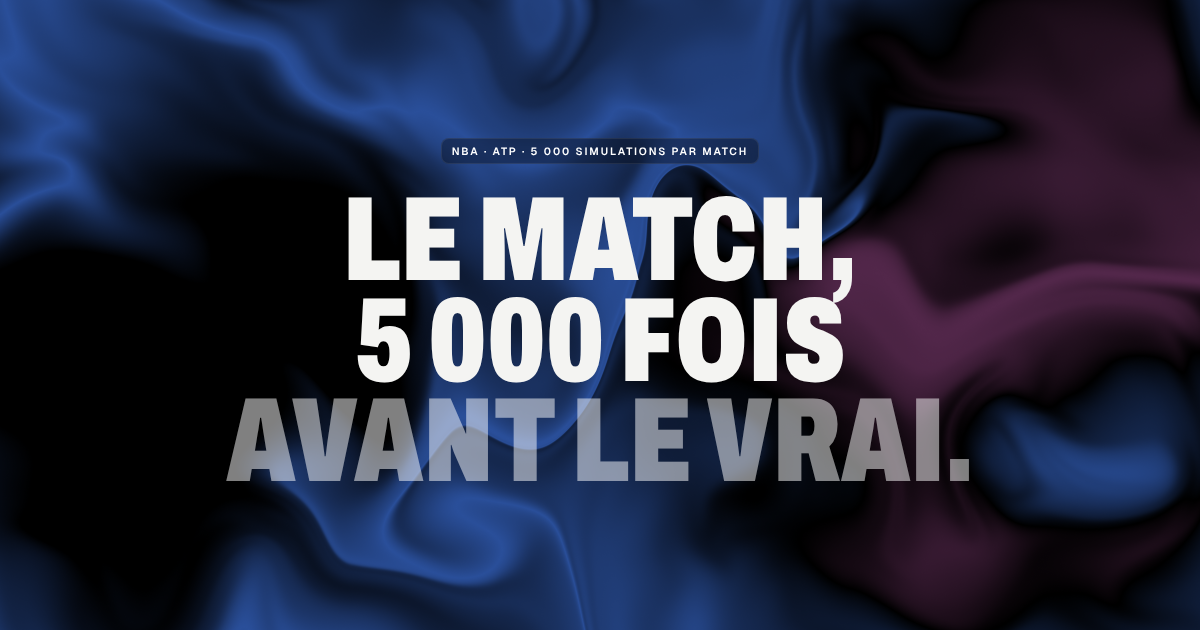
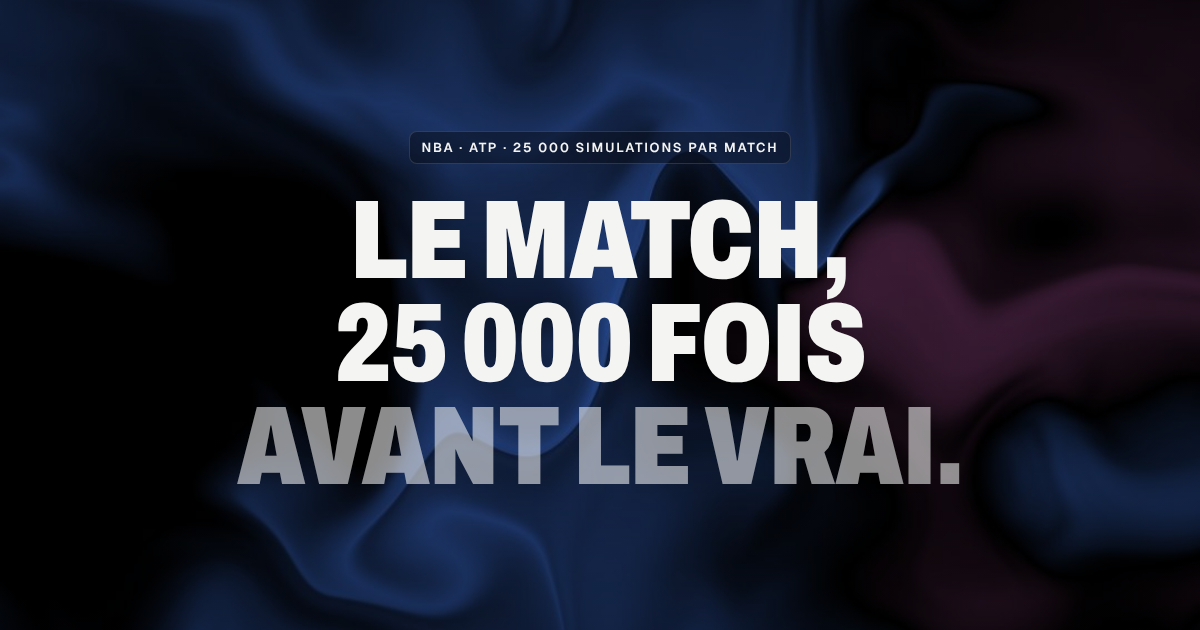
25 000 simulations par match (NBA et tennis) et correction « retour de blessure » au tennis activée (#125)
- Moteurs : 25 000 simulations par défaut (bruit sur le % de victoire : ± 0,7 -> ± 0,3 point).
- Site, aperçu de lien et image de partage : « 25 000 » partout ; le nombre affiché sur une fiche est celui de
  la simulation (les anciennes en ont 5 000).
- Tennis : retour de longue absence (poids 0,15, appris sur 2016-2023, vérifié sur 2024-2026).

Claude-Session: https://claude.ai/code/session_015NrTRaUoq2Dfft4YM3Vkx1

diff --git a/web/src/landing.tsx b/web/src/landing.tsx
@@ -122,7 +122,7 @@ function RingCard({ p = 0.82, title = 'Knicks +8,5' }: { p?: number; title?: str
         <span className="odds-pill">
           Cote <b>1,23</b>
         </span>
-        <p className="muted small">Passe dans 4 081 des 5 000 matchs simulés.</p>
+        <p className="muted small">Passe dans 20 405 des 25 000 matchs simulés.</p>
       </div>
     </div>
   );
@@ -180,7 +180,7 @@ function Logo() {
 }
 
 const FEATS: Array<{ icon: ReactNode; t: string; d: string }> = [
-  { icon: <ChartLineUp size={20} />, t: '5 000 simulations par match', d: 'Chaque match rejoué possession par possession, avec les compos et les cotes du moment.' },
+  { icon: <ChartLineUp size={20} />, t: '25 000 simulations par match', d: 'Chaque match rejoué possession par possession, avec les compos et les cotes du moment.' },
   { icon: <ShieldCheck size={20} />, t: 'Razzia assuré', d: 'Quand le favori dépasse 77 %, le moteur a vu juste 85 % du temps la saison passée.' },
   { icon: <Scales size={20} />, t: 'Pile ou face et paris plus sûrs', d: 'Les matchs trop serrés signalés, avec le handicap qui passe plus souvent.' },
   { icon: <ListChecks size={20} />, t: 'Suivi de tes tickets', d: 'Simples et combinés, cotes en direct, chaque sélection validée toute seule.' },
@@ -269,12 +269,12 @@ function Hero() {
     <header className="lp-hero3 mesh has-shader">
       <WarpBg c1={NUIT[0]} c2={NUIT[1]} />
       <span className="lp-eyebrow on-dark lp-in" style={{ '--d': 0 } as CSSProperties}>
-        NBA · ATP · 5 000 simulations par match
+        NBA · ATP · 25 000 simulations par match
       </span>
       <h1 className="lp-in" style={{ '--d': 1 } as CSSProperties}>
         Le match,
         <br />
-        5 000 fois
+        25 000 fois
         <br />
         <em>avant le vrai.</em>
       </h1>
@@ -318,7 +318,7 @@ function Proof() {
         <span>joueurs sur le terrain, chacun avec sa carte de tir, son défenseur et sa note d’impact</span>
       </div>
       <div>
-        <b className="up">5 000</b>
+        <b className="up">25 000</b>
         <span>matchs rejoués avant chaque coup d’envoi, compos et arbitres du soir compris</span>
       </div>
     </section>
@@ -330,7 +330,7 @@ function Bento() {
     <div className="lp-bento">
       <Bezel className="lp-b-big">
         <div className="lp-b-t">
-          <h3>5 000 matchs avant le vrai</h3>
+          <h3>25 000 matchs avant le vrai</h3>
           <p>Qui gagne, de combien, le score le plus probable, et le pari qui passe le plus souvent.</p>
         </div>
         <RingCard />
@@ -448,7 +448,7 @@ function Steps() {
       <ol>
         {[
           ['Choisis un match', 'Le programme NBA et ATP du jour, avec les cotes et les compos.'],
-          ['Razzia le joue 5 000 fois', 'En une minute : vainqueur, handicap plus sûr, joueurs en feu, badges.'],
+          ['Razzia le joue 25 000 fois', 'En une minute : vainqueur, handicap plus sûr, joueurs en feu, badges.'],
           ['Suis ton ticket', 'Ajoute les paris, valide, et regarde chaque sélection passer au vert.'],
         ].map(([t, d], i) => (
           <li key={t} data-reveal style={{ '--d': i } as CSSProperties}>
@@ -519,7 +519,7 @@ function Plans() {
 }
 
 const QA: Array<[string, string]> = [
-  ['Qu’est-ce que Razzia fait qu’une IA généraliste ne fait pas ?', 'Une IA généraliste résume ce qu’elle a lu. Razzia rejoue le match : 5 000 fois, possession par possession, avec la carte de tir de chaque joueur, ses défenseurs, les rotations, les arbitres et la fatigue du soir, sur des données mises à jour avant chaque simulation. Le résultat est une distribution chiffrée, pas une opinion.'],
+  ['Qu’est-ce que Razzia fait qu’une IA généraliste ne fait pas ?', 'Une IA généraliste résume ce qu’elle a lu. Razzia rejoue le match : 25 000 fois, possession par possession, avec la carte de tir de chaque joueur, ses défenseurs, les rotations, les arbitres et la fatigue du soir, sur des données mises à jour avant chaque simulation. Le résultat est une distribution chiffrée, pas une opinion.'],
   ['Comment est simulé un tir ?', 'Le moteur choisit le type de jeu (pick and roll, isolation, catch-and-shoot…), qui finit l’action, la zone et la position du tir sur la vraie carte du joueur, puis l’adresse selon la zone, le type de jeu, sa forme récente, le défenseur qui conteste et le domicile.'],
   ['Comment sont prévues les minutes ?', 'Comme le ferait le coach : hiérarchie de la rotation, titulaires annoncés, fautes, écart au score. Pour un effectif remanié, la pré-saison sert à lire la nouvelle hiérarchie, jamais à juger le niveau.'],
   ['Le moteur tient-il compte des arbitres et de la fatigue ?', 'Oui. Chaque arbitre a sa tendance à siffler, mesurée sur ses matchs : le trio du soir change le nombre de fautes. La fatigue compte les fuseaux traversés, l’altitude, le back-to-back et l’habitude d’un joueur de se reposer ce soir-là.'],
@@ -649,7 +649,7 @@ export function Landing({ path }: { path: string }) {
       )}
       {page === 'features' && (
         <>
-          <PageHead eyebrow="Fonctionnalités" title={<>Tout ce que<br />Razzia fait.</>} lede="Chaque match rejoué 5 000 fois, possession par possession ou point par point : les paris qui passent le plus souvent, les signaux à connaître, et ton ticket suivi jusqu’au coup de sifflet final." />
+          <PageHead eyebrow="Fonctionnalités" title={<>Tout ce que<br />Razzia fait.</>} lede="Chaque match rejoué 25 000 fois, possession par possession ou point par point : les paris qui passent le plus souvent, les signaux à connaître, et ton ticket suivi jusqu’au coup de sifflet final." />
           <section className="lp-sec lp-sec-tight">
             <Bento />
           </section>
@@ -742,7 +742,7 @@ export function Poster({ n }: { n: number }) {
         <WarpBg c1={AMBRE[0]} c2={AMBRE[1]} />
         <Logo />
         <h1>
-          5 000 matchs.
+          25 000 matchs.
           <br />
           <em>Avant le vrai.</em>
         </h1>
@@ -755,7 +755,7 @@ export function Poster({ n }: { n: number }) {
             <TeamMark team={{ tri: 'NYK' }} size="xl" />
           </div>
         </div>
-        <p className="po-sub">Chaque match NBA et ATP rejoué 5 000 fois avant le coup d’envoi.</p>
+        <p className="po-sub">Chaque match NBA et ATP rejoué 25 000 fois avant le coup d’envoi.</p>
         <span className="po-cta">razzia · simule avant de parier</span>
         {legal}
       </div>

diff --git a/web/index.html b/web/index.html
@@ -4,21 +4,21 @@
     <meta charset="UTF-8" />
     <meta name="viewport" content="width=device-width, initial-scale=1, viewport-fit=cover" />
     <meta name="theme-color" content="#08080a" />
-    <meta name="description" content="Razzia, sports analysis specialist : chaque match NBA et ATP rejoué 5 000 fois avec les effectifs, les absences et les cotes du moment." />
+    <meta name="description" content="Razzia, sports analysis specialist : chaque match NBA et ATP rejoué 25 000 fois avec les effectifs, les absences et les cotes du moment." />
     <link rel="icon" type="image/png" href="/src/assets/favicon.png" />
     <link rel="apple-touch-icon" href="/src/assets/apple-touch-icon.png" />
     <!-- Aperçu des liens partagés (X, réseaux) : le héros de l'accueil, 1200 × 630. -->
     <meta property="og:type" content="website" />
     <meta property="og:site_name" content="Razzia" />
-    <meta property="og:title" content="Razzia : le match, 5 000 fois avant le vrai" />
-    <meta property="og:description" content="Chaque match NBA et ATP rejoué 5 000 fois : qui gagne, de combien, et quel pari passe le plus souvent. Suis ton ticket en direct." />
+    <meta property="og:title" content="Razzia : le match, 25 000 fois avant le vrai" />
+    <meta property="og:description" content="Chaque match NBA et ATP rejoué 25 000 fois : qui gagne, de combien, et quel pari passe le plus souvent. Suis ton ticket en direct." />
     <meta property="og:url" content="https://simbet-mu.vercel.app/" />
     <meta property="og:image" content="https://simbet-mu.vercel.app/og.png" />
     <meta property="og:image:width" content="1200" />
     <meta property="og:image:height" content="630" />
     <meta name="twitter:card" content="summary_large_image" />
-    <meta name="twitter:title" content="Razzia : le match, 5 000 fois avant le vrai" />
-    <meta name="twitter:description" content="Chaque match NBA et ATP rejoué 5 000 fois. Suis ton ticket en direct." />
+    <meta name="twitter:title" content="Razzia : le match, 25 000 fois avant le vrai" />
+    <meta name="twitter:description" content="Chaque match NBA et ATP rejoué 25 000 fois. Suis ton ticket en direct." />
     <meta name="twitter:image" content="https://simbet-mu.vercel.app/og.png" />
     <title>Razzia | Simulations NBA</title>
   </head>

diff --git a/web/src/tennis.tsx b/web/src/tennis.tsx
@@ -1,4 +1,4 @@
-// Onglet Tennis (ATP) : programme d'après les cotes Pinnacle notées, fiche de match avec la simulation (5 000 matchs point
+// Onglet Tennis (ATP) : programme d'après les cotes Pinnacle notées, fiche de match avec la simulation (25 000 matchs point
 // par point), mêmes principes que la NBA : vainqueur ou « Un set », pile ou face, Razzia assuré.
 import { useCallback, useEffect, useMemo, useRef, useState, type CSSProperties, type ReactNode } from 'react';
 import { ArrowLeft, CaretRight, PawPrint, HouseLine, HouseSimple, ListBullets, Mountains, Scales, ShieldCheck, SquaresFour, TennisBall, TrendDown, TrendUp, Trophy, WarningCircle, X } from '@phosphor-icons/react';
@@ -733,7 +733,7 @@ export function TennisMatchPage({ day, id }: { day: string; id: string }) {
           queued={state.status === 'queued'}
           start={since ?? (state.startedAt ? Date.parse(state.startedAt) : undefined)}
           title="On joue le match, point par point."
-          steps={['Demande envoyée', 'Historique ATP, notes des joueurs, cotes Pinnacle', '5 000 matchs simulés', 'Publication des résultats']}
+          steps={['Demande envoyée', 'Historique ATP, notes des joueurs, cotes Pinnacle', '25 000 matchs simulés', 'Publication des résultats']}
           prep={40}
           note="Compter 1 à 3 minutes. La page se met à jour seule, et la simulation continue si vous la quittez."
         />
@@ -750,7 +750,7 @@ export function TennisMatchPage({ day, id }: { day: string; id: string }) {
             </div>
           )}
           <h2>
-            Ce match, <em>joué 5 000 fois.</em>
+            Ce match, <em>joué 25 000 fois.</em>
           </h2>
           <p className="lede">
             Point par point : service et retour de chaque joueur sur cette surface, forme du jour, jeux décisifs. Il en sort la victoire, « Un set », le score en

diff --git a/src/cli/tennissim.ts b/src/cli/tennissim.ts
@@ -1,5 +1,5 @@
 // Simulation de matchs ATP à venir, à partir de leur fiche de cotes Pinnacle (branche cotes-tennis) :
-//   node src/cli/tennissim.ts --id 1639121174 --day 2026-10-24 --cotes ../cotes --out out/tennis [--n 5000]
+//   node src/cli/tennissim.ts --id 1639121174 --day 2026-10-24 --cotes ../cotes --out out/tennis [--n 25000]
 //   node src/cli/tennissim.ts --id 1639121174,1639065243 --day 2026-10-24,2026-10-25 ...   (toute une journée)
 // Une liste de jours de même longueur que les ids, ou un seul jour pour tous. Historique TennisMyLife en cache
 // (data/cache/tennis/tml), lu une fois ; photo officielle ATP, Wikipédia en secours. Écrit <out>/<id>.json par match ;
@@ -15,7 +15,7 @@ import { espnFixtures, leagueOf, pairKey, type Fixture } from '../tennis/espn.ts
 import { atpHeadshot, photoOf } from '../tennis/photos.ts';
 
 const arg = (k: string, d?: string) => { const i = process.argv.indexOf(`--${k}`); return i >= 0 ? process.argv[i + 1] : d; };
-const ids = arg('id')!.split(','), days = arg('day')!.split(','), cotes = arg('cotes', 'cotes-tennis')!, out = arg('out', 'out/tennis')!, n = Number(arg('n', '5000'));
+const ids = arg('id')!.split(','), days = arg('day')!.split(','), cotes = arg('cotes', 'cotes-tennis')!, out = arg('out', 'out/tennis')!, n = Number(arg('n', '25000'));
 if (days.length !== 1 && days.length !== ids.length) throw new Error('--day : un seul jour, ou un par match');
 const cache = 'data/cache/tennis';
 const history = await loadHistory(join(cache, 'tml'));

diff --git a/web/src/match.tsx b/web/src/match.tsx
@@ -324,7 +324,7 @@ function SimPanel({ g, state, busy, launch, since }: { g: Game } & ReturnType<ty
         </div>
       )}
       <h2>
-        {g.away.name} contre {g.home.name}, <em>joué 5 000 fois.</em>
+        {g.away.name} contre {g.home.name}, <em>joué 25 000 fois.</em>
       </h2>
       <p className="lede">
         Possession par possession : rotations, fautes, fins de match, adresse par zone et défenseurs probables. Il en sort les probabilités de victoire, du
@@ -332,7 +332,7 @@ function SimPanel({ g, state, busy, launch, since }: { g: Game } & ReturnType<ty
       </p>
       <div className="launch-facts">
         <div>
-          <b>5 000</b>
+          <b>25 000</b>
           <span>matchs simulés</span>
         </div>
         <div>
@@ -358,7 +358,7 @@ function Progress({ state, since }: { state: Extract<SimState, { status: 'queued
       queued={state.status === 'queued'}
       start={since ?? (state.startedAt ? Date.parse(state.startedAt) : undefined)}
       title="On joue le match."
-      steps={['Demande envoyée', 'Données du jour : effectifs, absences, cotes', '5 000 simulations', 'Publication des résultats']}
+      steps={['Demande envoyée', 'Données du jour : effectifs, absences, cotes', '25 000 simulations', 'Publication des résultats']}
       prep={70}
       note="Compter 3 à 6 minutes, un peu plus pour la toute première simulation. La page se met à jour seule, et la simulation continue si vous la quittez."
     />

diff --git a/web/src/picks.ts b/web/src/picks.ts
@@ -1,4 +1,4 @@
-// Pronostics par catégorie (vainqueur et handicap) : pour chaque pari, l'issue retenue sur les 5 000 simulations, avec
+// Pronostics par catégorie (vainqueur et handicap) : pour chaque pari, l'issue retenue sur les 25 000 simulations, avec
 // sa fréquence et la cote du bookmaker (ou la cote juste) pour comparaison.
 import { decimal, line, noVig, pct, signed, type Game, type Result } from './data.ts';
 
@@ -94,7 +94,7 @@ export function buildCategories(r: Result, g: Game): Category[] {
       id: 'win', title: `Victoire ${deTeam(g[winSide].name)}`, who: g[winSide], bet: { kind: 'win', side: winSide }, p: winP, fair: 1 / winP,
       odds: (homeWins ? o.mlHome : o.mlAway) != null ? decimal((homeWins ? o.mlHome : o.mlAway)!) : undefined,
       implied: ml ? (homeWins ? ml[0] : ml[1]) : undefined,
-      text: `${g[winSide].city} ${g[winSide].name} gagne ${Math.round(winP * 5000).toLocaleString('fr-FR')} des 5 000 matchs simulés. Score médian : ${g.away.tri} ${Math.round(r.awayPts.p50)}, ${g.home.tri} ${Math.round(r.homePts.p50)}. Prolongation dans ${pct(r.pOT)} des cas.`,
+      text: `${g[winSide].city} ${g[winSide].name} gagne ${Math.round(winP * (r.n || 25000)).toLocaleString('fr-FR')} des ${(r.n || 25000).toLocaleString('fr-FR')} matchs simulés. Score médian : ${g.away.tri} ${Math.round(r.awayPts.p50)}, ${g.home.tri} ${Math.round(r.homePts.p50)}. Prolongation dans ${pct(r.pOT)} des cas.`,
     }],
   });
 

diff --git a/src/cli/sim.ts b/src/cli/sim.ts
@@ -1,5 +1,5 @@
 // Simule un match N fois et produit : résumé des distributions, props, match typique (pour le rendu 2D).
-//   node src/cli/sim.ts --game OKC@SAS --date 2026-10-20 [--n 5000] [--out "Nom1,Nom2"] [--in "Nom"] [--seed 7]
+//   node src/cli/sim.ts --game OKC@SAS --date 2026-10-20 [--n 25000] [--out "Nom1,Nom2"] [--in "Nom"] [--seed 7]
 import { mkdirSync, writeFileSync, readFileSync } from 'node:fs';
 import { join } from 'node:path';
 import { buildGameModel } from '../nba/model/build.ts';
@@ -139,12 +139,12 @@ export function report(m: GameModel, s: Summary, typ: ReturnType<typeof typicalG
 if (import.meta.main) {
   const game = arg('game');
   if (!game || !game.includes('@')) {
-    console.error('Usage : node src/cli/sim.ts --game AWAY@HOME --date YYYY-MM-DD [--n 5000]');
+    console.error('Usage : node src/cli/sim.ts --game AWAY@HOME --date YYYY-MM-DD [--n 25000]');
     process.exit(1);
   }
   const [away, home] = game.toUpperCase().split('@');
   const date = arg('date', new Date().toISOString().slice(0, 10))!;
-  const n = Number(arg('n', '5000'));
+  const n = Number(arg('n', '25000'));
   const res = await simulateMatchup({
     away, home, date, n, seed: Number(arg('seed', '7')), fresh: flag('fresh'),
     out: arg('out')?.split(',').map((s) => s.trim()).filter(Boolean), in: arg('in')?.split(',').map((s) => s.trim()).filter(Boolean),

diff --git a/src/tennis/engine.ts b/src/tennis/engine.ts
@@ -16,7 +16,9 @@ export const WEIGHTS = {
   // Confrontations des 6 dernières années, (victoires A - victoires B) / (matchs + 4) : même sens sur les deux saisons,
   // effet petit (log-loss du moteur 0,5957 -> 0,5952 ; pronostics inchangés une fois mélangés au marché).
   h2h: 0.4458,
-  comeback: 0, // retour de longue absence (2e au 10e match) ; 0,15 testé (src/dev/tenniscomeback.ts), pas encore appliqué
+  // Retour de longue absence (2e au 10e match après 6 mois et plus) : appris sur 2016-2023, vérifié sur 2024-2026 ;
+  // un joueur de haut niveau prévu à 58 % sur ces matchs n'en gagnait que 52 %. Voir src/dev/tenniscomeback.ts.
+  comeback: 0.15,
 };
 /**
  * Part du marché (Pinnacle sans marge) dans la probabilité Razzia. Deux saisons, pronostics vainqueur / « Un set » :

diff --git a/src/cli/slate.ts b/src/cli/slate.ts
@@ -1,5 +1,5 @@
 // Simule tous les matchs d'une date et récapitule probabilités, lignes et meilleurs écarts sur les props.
-//   node src/cli/slate.ts --date 2026-10-22 [--n 5000]
+//   node src/cli/slate.ts --date 2026-10-22 [--n 25000]
 import { writeFileSync, mkdirSync } from 'node:fs';
 import { join } from 'node:path';
 import { getSchedule } from '../data/cdn.ts';
@@ -13,7 +13,7 @@ function arg(name: string, def?: string): string | undefined {
 }
 
 const date = arg('date', new Date().toISOString().slice(0, 10))!;
-const n = Number(arg('n', '5000'));
+const n = Number(arg('n', '25000'));
 const sched = await getSchedule(1);
 const games = sched.games.filter((g) => g.date === date && isCompetitiveGame(g.gameId));
 if (!games.length) {

diff --git a/src/tennis/sim.ts b/src/tennis/sim.ts
@@ -101,7 +101,7 @@ function play(rng: Rng, pa: number, pb: number, bestOf: 3 | 5): { sa: number; sb
 }
 
 export function simulate(opts: { pA: number; pB: number; bestOf: 3 | 5; target?: number; n?: number; seed?: number; formSd?: number }): SimResult {
-  const n = opts.n ?? 5000, sd = opts.formSd ?? FORM_SD;
+  const n = opts.n ?? 25000, sd = opts.formSd ?? FORM_SD;
   const { pA, pB } = opts.target != null ? calibrate(opts.pA, opts.pB, opts.bestOf, opts.target, sd) : { pA: opts.pA, pB: opts.pB };
   const rng = new Rng(opts.seed ?? 1);
   const scores: Record<string, number> = {};

diff --git a/web/src/share.ts b/web/src/share.ts
@@ -156,7 +156,7 @@ export async function ticketImage(t: Ticket, live: Record<string, LegStatus>, fo
   // Signature : en bas de la story ; sur le post X, à droite sous l'accroche, pour laisser la hauteur à la carte.
   const sx = story ? pad : 1062, sy = story ? H - 150 : H - 120;
   if (!story) {
-    big('5 000 matchs', 1060, 420, 78);
+    big('25 000 matchs', 1060, 420, 78);
     big('avant le vrai.', 1060, 500, 78, 'rgba(255,255,255,0.55)');
     text('Simulé par Razzia', 1062, 560, 30, C.grey, 500);
   }

diff --git a/web/src/results.tsx b/web/src/results.tsx
@@ -1,4 +1,4 @@
-// Résultats des 5 000 simulations : verdict et niveau de confiance d'abord, puis les paris, et le détail (signaux,
+// Résultats des 25 000 simulations : verdict et niveau de confiance d'abord, puis les paris, et le détail (signaux,
 // joueurs à suivre, match typique, duel statistique, profil de tir, joueurs).
 import { useMemo, useState, type CSSProperties, type ReactNode } from 'react';
 import { ArrowsLeftRight, Check, Plus, Scales, ShieldCheck } from '@phosphor-icons/react';
